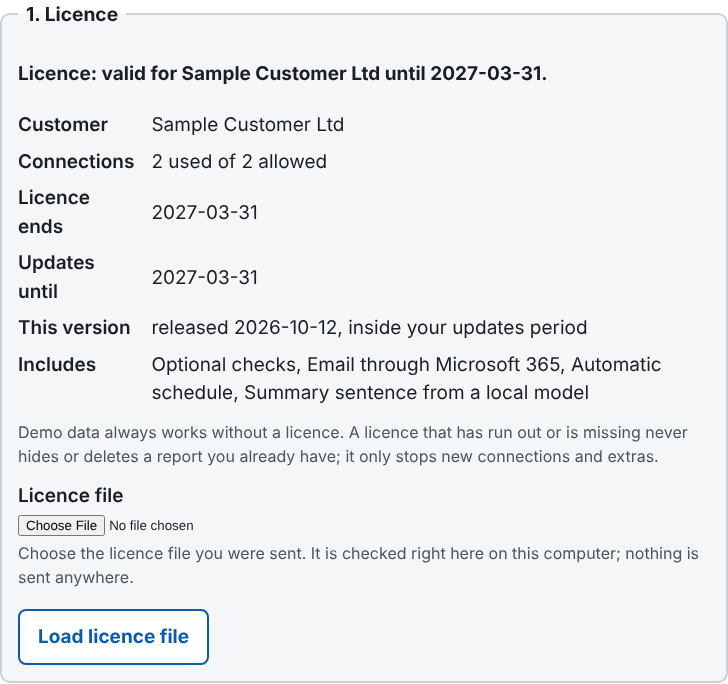
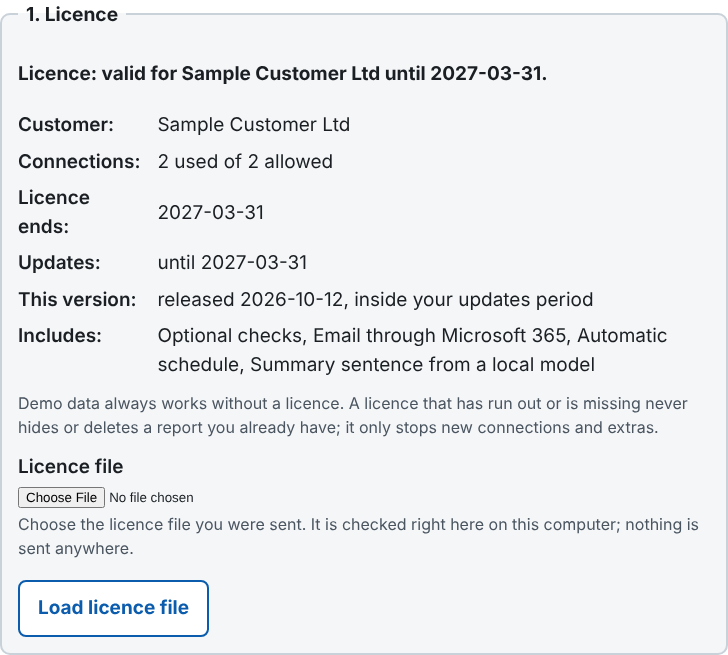
Update check docs, lifetime updates, fix Referrer-Policy so real browser form posts are accepted, screenshots
Claude-Session: https://claude.ai/code/session_01JW57mYyFAVpjgtiFDVy8wn

diff --git a/tests/test_settings_server.py b/tests/test_settings_server.py
@@ -132,6 +132,17 @@ class Access(Base):
     def test_only_listens_on_this_computer(self):
         self.assertEqual(self.server.server_address[0], "127.0.0.1")
 
+    def test_a_real_browser_form_post_is_accepted_and_origin_null_is_not(self):
+        """Browsers send Origin: null on form posts when Referrer-Policy is no-referrer. We use same-origin, so
+        the browser sends the real origin (accepted); a literal "null" origin (sandboxed frame) stays refused."""
+        req = urllib.request.Request(f"http://127.0.0.1:{self.port}/?t={self.server.token}")
+        with urllib.request.urlopen(req) as r:
+            self.assertEqual(r.headers["Referrer-Policy"], "same-origin")
+        origin = f"http://127.0.0.1:{self.port}"
+        self.assertEqual(self.post({"action": "save", **RULES}, headers={"Origin": origin})[0], 200)
+        self.assertEqual(self.post({"action": "save", **RULES}, headers={"Origin": "null"})[0], 403)
+        self.assertEqual(self.post({"action": "save", **RULES}, headers={"Origin": f"http://localhost:{self.port}"})[0], 200)
+
     def test_security_headers(self):
         req = urllib.request.Request(f"http://127.0.0.1:{self.port}/?t={self.server.token}")
         with urllib.request.urlopen(req) as r:

diff --git a/dssreport/settings_server.py b/dssreport/settings_server.py
@@ -731,7 +731,9 @@ class _Handler(BaseHTTPRequestHandler):
         self.send_header("Content-Length", str(len(body)))
         self.send_header("Cache-Control", "no-store")
         self.send_header("X-Frame-Options", "DENY")
-        self.send_header("Referrer-Policy", "no-referrer")
+        # "same-origin" (not "no-referrer"): browsers send Origin: null on form posts under no-referrer, which
+        # our Origin check (rightly) refuses. Same-origin keeps the one-time token from ever leaving this computer.
+        self.send_header("Referrer-Policy", "same-origin")
         self.send_header("Content-Security-Policy",
                          "default-src 'none'; style-src 'unsafe-inline'; form-action 'self'; base-uri 'none'")
         self.end_headers()

diff --git a/docs/UPDATES.md b/docs/UPDATES.md
@@ -1,11 +1,11 @@
 # Updates: you decide who gets one and when
 
-Updates are built into the program, and **you (the owner) control them completely**. There is no automatic update, no update server and no "check for updates": the program never goes online for updates. An update reaches a customer only when you send them an update file, and the program only installs it if the file is genuinely yours and that customer is allowed to have it.
+Updates are built into the program, and **you (the owner) control them completely**. The program never goes online for updates unless the customer switches on the optional check (off by default), and even then nothing installs by itself. An update reaches a customer when you send them an update file, or when they choose to download one you have published; the program only installs it if the file is genuinely yours and that customer is allowed to have it.
 
 ## How it works
 
 1. **You build and sign an update file** with `tools/update_tool.py` on your own machine (see below). It holds the new program files and a signed list of them.
-2. **You send it to the customers you choose**, when you choose, however you like (email, a download link you control, a USB stick).
+2. **You get it to the customers you choose**, when you choose: send the file (email, a link, a USB stick), or publish it where the optional online check can list it (below).
 3. **The customer installs it** in settings (**2. Updates** > Choose the update file > Install update file), or with `python -m dssreport update install <file>`.
 4. **The program checks, on the customer's computer, before it changes anything:**
    - the file is signed by your update key (a public key built into the program) and nothing inside it has been changed;
@@ -45,21 +45,57 @@ python tools/update_tool.py make --private-key <that key file> --kid 2026-u --so
 - Same key custody rules as the licence key (`docs/LICENSING.md`): outside every git folder, passphrase-protected, offline backup, only the public half in the product.
 - Release the **first** build with the update public key already inside it, because a program can only check updates against the keys it already has. Rotating keys later means shipping the new public key in an update signed with the old one.
 
-## Why not an automatic update check?
+## The optional online update check
 
-Because it would be a new network call, and the promise today is that the program only talks to your R365, Microsoft 365 (if switched on) and a model on the same computer. Offline signed files keep that promise and still give you full control.
+Switched **off by default**. When the user ticks it and gives it an address, pressing **Check for updates now** (in settings > Updates, or `python -m dssreport update check`) does this and nothing more:
 
-If you do want the program to check for you, here is the design, **not built**, for you to decide:
+1. **One plain `GET`** of a small signed list (the *manifest*) from the address the user typed in settings.
+2. The list names the available versions, each with its package file name, release date and a **SHA-256 fingerprint**. The program checks the list's signature with the update public key built into it, exactly as it checks an update file. A changed, unsigned, or wrongly signed list is ignored with a plain message.
+3. It shows the versions newer than the installed one. **Nothing is downloaded yet.**
+4. The user presses **Download** on one. One plain `GET` fetches that package from the **same folder** on the **same site** as the list. The program checks the fingerprint against the signed list, then verifies the package exactly like a hand-supplied file (signature, safe paths, nothing but program files, the licence's update period, any licence the owner addressed it to). If any check fails the download is thrown away.
+5. The user presses **Install**. **Nothing ever installs automatically.** Install keeps a backup and can be rolled back, as for a manual file.
 
-- **Off by default and opt-in** in settings, with a plain sentence saying exactly what is sent.
-- **Sends only what is needed**: the installed version, and (only if you want per-customer control) the licence id. No sales data, no location names, no settings, no computer identifiers, no analytics.
-- **Fetches from one address you own**, https only, and gets back a small signed notice or the signed update file. Everything is still checked on the computer as above, so a fake server can't push code.
-- **You control it from your side**: a signed notice per version and per licence id lets you release to some customers first, hold others, or pause.
-- **Costs**: a server to run and secure, the licence id leaves the computer (a privacy statement is needed), and the README promise would have to change to name this address.
+The manual route (build a file, send it, the user picks it in settings or runs `update install`) is unchanged and needs no online setting.
 
-### Decisions for you
+### It sends nothing about the user
 
-1. Offline signed files only (as built), or add the opt-in online check above?
-2. If online: where it is hosted, and whether the licence id may be sent.
-3. Who builds and sends updates, and how you keep track of which licence has which version.
-4. Generate the real update key pair and paste the public half in before the first release.
+The request is a `GET` for the address itself: no query string, no cookies, no licence id, no customer name, no settings, no program version, no computer or operating-system details, no username. Only a fixed generic set of headers goes out (`Host`, `User-Agent: dss-report-update-check`, `Accept`, `Connection`). Redirects are refused, so a request can never be handed on to another site. The only thing the host can learn is that someone asked for the file, which is true of any web page.
+
+The address must start with `https://` and may not contain a user name, a `?` query or a `#` part (so nothing user-specific can be tacked on). Package names in the list must be plain file names ending `.dssupdate`: they cannot name another folder or site. The update list and every package are limited in size.
+
+### Where it fits in the allowed network calls
+
+The program's complete list of network calls is now: your **R365 address** (per connection), **Microsoft sign-in and Graph** (only if email is switched on), a **model on the same computer** (only if the summary is switched on), and **the update list address you set** (only if the update check is switched on, and only when you press the button). There is no telemetry, no analytics, no licence server. A test checks that no other part of the program can make a network call.
+
+### Hosting: a static page or a release file you own
+
+The owner hosts two kinds of file in **one folder** on any static host the owner controls: a static web page or folder (any web host, object storage, a documentation site) or the release files of a repository the owner owns:
+
+```
+https://<your-host>/<folder>/manifest.json
+https://<your-host>/<folder>/dss-update-0.4.0.dssupdate
+https://<your-host>/<folder>/dss-update-0.5.0.dssupdate
+```
+
+**The host is not trusted.** The security comes only from the signatures: someone who took over the host, or sits between the host and a customer, still cannot make the program install anything, because they cannot sign. The worst they can do is hide an update (serve nothing or an old list), which is why a customer can always fall back to the manual signed-file route. No real address is built into the program. The settings screen shows a placeholder (`https://updates.example.invalid/dss-report/manifest.json`) and the owner tells each customer the real address, or sends the address with the licence.
+
+Because the check sends nothing about the customer, the host cannot tell customers apart or hold an update back from one of them. What you can still control: a package addressed to particular licences (`--licence-ids`) can be downloaded by anyone who can reach the folder, but **installs only on those licences** (everyone else sees "not released to your licence"). To keep a package away from some customers entirely, do not publish it; send it as a file. The licence's update period is enforced at the customer's end: a version released after it is listed with "Renew to get it" and offers no download button, and a lifetime licence is covered for every release date.
+
+### Publishing an update online (owner)
+
+```
+python tools/update_tool.py make --private-key <key> --kid 2026-u --source <repo> --version 0.4.0 --release-date 2026-11-01 \
+    --out releases/dss-update-0.4.0.dssupdate
+python tools/update_tool.py manifest --private-key <key> --kid 2026-u --packages releases --out releases/manifest.json
+```
+
+Upload the `.dssupdate` files and `manifest.json` together to the one folder on your host. The `manifest` command lists every package in the folder. To withdraw a version, remove it from the folder and run `manifest` again. To pause updates, publish a manifest that lists nothing newer.
+
+A signed list also carries an issue date. A host that serves an *older* list can only hide newer versions; it can never cause an older program to be installed, because a version must be newer than the one installed.
+
+### Decisions left for you
+
+1. The real update key pair (public half pasted into `UPDATE_PUBLIC_KEYS` before the first release; nothing about the key is in the repo).
+2. The real hosting address, and how each customer is told it.
+3. How you track which customer has which version (the program never reports it).
+4. Whether to add an automatic periodic check later. Today the check runs only when a person presses the button.

diff --git a/docs/LICENSING.md b/docs/LICENSING.md
@@ -8,7 +8,7 @@ A licence is one small file, sent to you by Jay Rohrs. It says:
 - **how many Restaurant365 connections** you may run (a number, or the word `unlimited`),
 - **when it ends** (the expiry date),
 - **which extras it includes** (feature flags, listed below),
-- **"updates until"**: the last date for which new versions are included.
+- **"updates until"**: the last date for which new versions are included, or the word `lifetime`.
 
 It carries a digital signature made with a private key that only Jay has. If anyone changes even one letter of the file, the signature stops matching and the program refuses it.
 
@@ -70,7 +70,7 @@ If a flag is missing, the feature says so in plain words ("Automatic schedule is
 
 ## Updates
 
-"Updates until" is the last date for which new versions are included. The program never goes online to look for updates; the owner sends an update file (see `docs/UPDATES.md`). Running an older or a newer version is never blocked, and the settings screen only shows whether this version is inside your updates period. The date is used at one point: an update file released **after** your "updates until" date is not installed, with a plain "Renew to get it". Your current version and all your reports keep working.
+"Updates until" is the last date for which new versions are included, or the explicit word `lifetime` (no end; shown in settings as "Updates: lifetime"). Any other value makes the file refused as damaged, so a typo can never turn into lifetime updates. The program only looks for updates if the customer switches on the optional online check; otherwise the owner sends an update file (see `docs/UPDATES.md`). Running an older or a newer version is never blocked, and the settings screen only shows whether this version is inside your updates period. The date is used at one point: an update file released **after** your "updates until" date is not installed, with a plain "Renew to get it". Your current version and all your reports keep working.
 
 ---
 
@@ -85,7 +85,7 @@ python tools/licence_tool.py sign --private-key "D:\private-keys\2026-a.private.
 python tools/licence_tool.py show licence.json
 ```
 
-`sign` defaults to the base feature set; add `--features optional_rules,email_m365,...` to change it.
+`sign` lists all four current flags by default; add `--features optional_rules,email_m365,...` to change it. `--instances` takes a number or `unlimited`; `--updates-until` takes a date or `lifetime`.
 
 ### Key custody: the private key is the owner's job, outside this repository
 
@@ -117,10 +117,10 @@ It stops casual sharing and lets Jay sell, renew and limit connections without r
 
 - An expired licence keeps existing connections running (up to the number licensed) and never blocks reports; it blocks adding connections and gets the renewal notice.
 - A missing or invalid licence allows no R365 connections; reports and demo data still work.
-- "Updates until" is shown, not enforced by the licence screen. (How updates themselves are controlled is in `docs/UPDATES.md`.)
+- "Updates until" decides which update files may be installed (a date, or `lifetime`); it never blocks running a version or viewing a report. The optional online update check is built, off by default (see `docs/UPDATES.md`).
 - The four current flags are normally listed in a licence. Connections and flags come only from the file.
 
 ### Still open
 
 1. Where the real private key lives, who can sign, and the backup arrangement (owner's job, outside the repo).
-2. Whether an online update check is wanted at all (see `docs/UPDATES.md`).
+2. The real update key pair and hosting address (see `docs/UPDATES.md`).

diff --git a/SECURITY.md b/SECURITY.md
@@ -5,9 +5,9 @@
 - **R365 is read-only.** The connector can only send GET requests, sends your sign-in only to the address you configured over https, refuses redirects and refuses next-page links that point to another website.
 - **Microsoft 365 uses delegated sign-in.** You sign in on Microsoft's page; no password is stored. It asks for the least permission: create a draft. The extra permission to send is requested only if you tick "send automatically", which is off by default.
 - **Licences are checked offline** with a public key built into the program; no licence server, no network call. The PRIVATE signing key is never in this repository (`tools/licence_tool.py` refuses to write one inside a git folder, `.gitignore` blocks key files, and a test fails if one appears). Tests use a throw-away key made fresh each run.
-- **Updates are signed files the owner sends, checked on your computer.** There is no update server and no automatic check. A separate update key (public half only in the product) signs them; a file that is changed, unsigned, signed by another key, outside your licence's update period, or that tries to write outside the program folder is refused whole, and nothing is changed. Settings, saved passwords, licence and reports are never touched. The update private key follows the same custody rules as the licence key.
+- **Updates are signed, owner-controlled and checked on your computer.** They arrive as a file the owner sends, or (optionally, off by default) by pressing a button to download one the owner has published; nothing is ever installed automatically. The host of an online update is not trusted: only the signatures matter. A separate update key (public half only in the product) signs them; a file that is changed, unsigned, signed by another key, outside your licence's update period, or that tries to write outside the program folder is refused whole, and nothing is changed. Settings, saved passwords, licence and reports are never touched. The update private key follows the same custody rules as the licence key.
 - **Private values stay out of the repo.** The real R365 field mapping, the R365 address and user name, the Microsoft app ID, tenant and email addresses are typed into the settings screen and kept in the user's own folder (`%LOCALAPPDATA%\DssReport`), never committed. The repo, docs, tests and screenshots use obviously fake placeholders only, and a test scans for real-looking addresses and IDs.
-- **Network calls are only these:** your R365 address, Microsoft sign-in/Graph (if email is on), and a language model on this computer (if on). No analytics or telemetry.
+- **Network calls are only these** (a test checks no other module can make one): your R365 address, Microsoft sign-in/Graph (if email is on), a language model on this computer (if on), and the update list address you set (only if the optional update check is on, only when you press the button, a plain GET that sends nothing about you; everything fetched is checked with the update public key before it can be used). No analytics or telemetry.
 - **The settings screen is local only.** It listens on 127.0.0.1, needs a random one-time token that exists only in the address the program opens, checks the Host and Origin headers, and never logs requests.
 - **Generated reports contain your figures.** Treat the reports folder like the data it came from.
 - **The installer** needs no administrator rights, downloads nothing itself (Python, if missing, comes from Windows' own winget) and installs under your user folder.

diff --git a/README.md b/README.md
@@ -92,7 +92,9 @@ Your real field mapping, R365 address and user name, Microsoft app ID and email 
 
 ## Updates
 
-Updates are controlled by Jay Rohrs. The program never goes online to look for them: when an update is released to you, you are sent an update file, and you install it in settings (**Updates**). The program checks on your computer that the file is genuinely from Jay Rohrs and that your licence's update period covers it, replaces only the program files, keeps your settings, passwords, licence and reports exactly as they were, and lets you go back to the previous version. Details: [docs/UPDATES.md](docs/UPDATES.md).
+Updates are controlled by Jay Rohrs. When an update is released to you, you are sent an update file and you install it in settings (**Updates**). The program checks on your computer that the file is genuinely from Jay Rohrs and that your licence's update period (or "Updates: lifetime") covers it, replaces only the program files, keeps your settings, passwords, licence and reports exactly as they were, and lets you go back to the previous version.
+
+There is also an **optional** online check, **off by default**: if you switch it on and give it the address you were given, pressing "Check for updates now" fetches a small signed list of versions, and you choose whether to download and then whether to install. It sends nothing about you (no licence, no name, no computer details). Nothing downloads or installs by itself. Details: [docs/UPDATES.md](docs/UPDATES.md).
 
 ## If R365 changes its API
 
@@ -100,7 +102,7 @@ The program reaches R365 through one interface, so a connector for the new API c
 
 ## Where your data stays
 
-On your computer. Licensing is checked locally and sends nothing. The program makes network calls only to places you set up: your R365 address, Microsoft 365 if you turn email on, and a language model on this same computer if you turn that on. No analytics, no tracking, nothing else. Reports are saved in `%LOCALAPPDATA%\DssReport\reports` (and `out/` for demo runs, which git ignores). The R365 password and Microsoft sign-in live only in the operating system's credential store.
+On your computer. Licensing is checked locally and sends nothing. The program makes network calls only to places you set up (the complete list): your R365 address, Microsoft 365 if you turn email on, a language model on this same computer if you turn that on, and the update list address if you turn the optional update check on and press the button. No analytics, no tracking, nothing else. Reports are saved in `%LOCALAPPDATA%\DssReport\reports` (and `out/` for demo runs, which git ignores). The R365 password and Microsoft sign-in live only in the operating system's credential store.
 
 ## Security
 

diff --git a/docs/DEVELOPER_NOTES.md b/docs/DEVELOPER_NOTES.md
@@ -47,6 +47,7 @@ CSV columns: `location, business_date (YYYY-MM-DD), sales_total, pay_<type> (any
 | `settings_server.py` (view page) | `/report` shows the saved report with "create Microsoft 365 draft" and "open in my mail app" buttons; nothing is emailed until a button is pressed |
 | `state.py` | run memory: last scheduled slot, last report folder, locations seen (used only for the Show/Hide list, never as expected locations) |
 | `licence.py`, `licence_keys.py`, `ed25519.py` | offline signed licences: format, signature check (stdlib Ed25519), status, feature flags, connection limit. `tools/` holds the signing side, outside the shipped package |
+| `update_check.py` | the optional online check: GET a signed list, GET a package, verify both with the update key. The only update code that touches the network; off by default |
 | `updates.py` | owner-signed update files: verify, check the licence allows it, install only program files, backup and rollback. No network. `tools/update_tool.py` builds them |
 | `sources.py` | the one interface to R365 data (`DataSource`), a registry of connector kinds, mapping-format check |
 | `summary.py` | optional local-model sentence and the check that discards a wrong one |

diff --git a/tools/README.md b/tools/README.md
@@ -8,6 +8,6 @@ copies only that folder) because it handles the PRIVATE signing key.
 - The real private key lives only with Jay Rohrs, outside this repository.
 - Tests generate a throw-away key in memory every run and never use a real one.
 
-`update_tool.py` builds and signs update packages (see `docs/UPDATES.md`). Use a separate key pair for updates.
+`update_tool.py` builds and signs update packages and the signed list for the optional online check (see `docs/UPDATES.md`). Use a separate key pair for updates.
 
 See `docs/LICENSING.md`.
